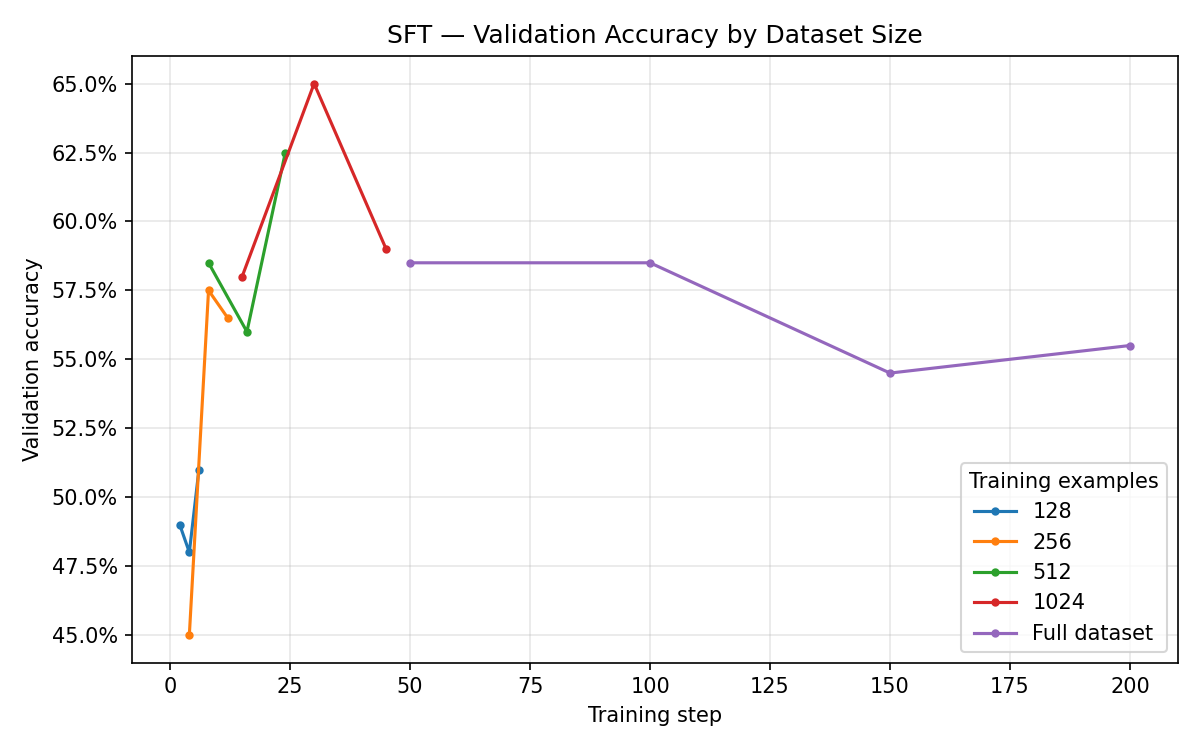
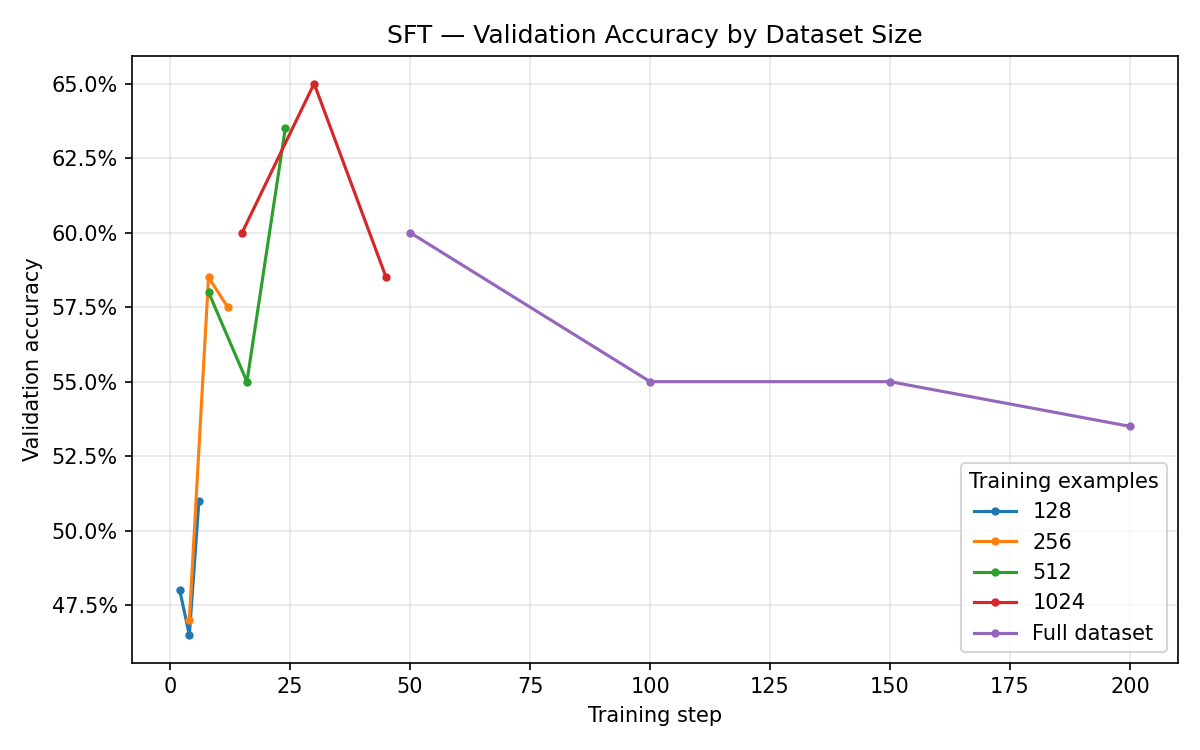
Updated results and README.md

diff --git a/Foundation_model_performance_and_scaling/part5-alignment/README.md b/Foundation_model_performance_and_scaling/part5-alignment/README.md
@@ -12,7 +12,7 @@ Starting from a base model pretrained on math data, the pipeline progressively
 improves mathematical reasoning:
 
 1. **Measure** zero-shot baseline performance on MATH using the r1_zero prompt
-2. **Fine-tune** on DeepSeek R1 chain-of-thought reasoning traces (SFT)
+2. **Fine-tune** on `gpt-oss-120b` chain-of-thought reasoning traces (SFT)
 3. **Bootstrap** reasoning via Expert Iteration: rollout → filter correct → fine-tune
 4. **Optimize** with GRPO: policy gradient with group-normalized verified rewards
 
@@ -87,7 +87,7 @@ varying dataset size and data quality filtering.
 
 ### Training Experiment
 
-Runs six experiments sequentially (dataset size ablation + filtered data):
+Runs seven experiments sequentially (dataset size ablation + filtered data):
 
 | Run | Training examples | Notes |
 |-----|------------------|-------|
@@ -95,16 +95,19 @@ Runs six experiments sequentially (dataset size ablation + filtered data):
 | `sft_n256` | 256 | |
 | `sft_n512` | 512 | |
 | `sft_n1024` | 1024 | |
-| `sft_full` | Full dataset | Target: ≥ 15% validation accuracy |
-| `sft_filtered` | Full, correct-answer only | Filtered by r1_zero reward function |
+| `sft_full` | Full dataset (4836) | Target: ≥ 15% validation accuracy |
+| `sft_filtered` | 4542, correct-only | Filtered by r1_zero_reward_fn (sympy equivalence) |
+| `sft_filtered_repo` | 3496, correct-only | Filtered by strict string match |
 
 ```bash
 cd cs336_alignment/section4_sft
-./part_5_4.sh                        # helper tests + all 6 training runs (2 GPUs)
+./part_5_4.sh                        # helper tests + all 7 training runs (2 GPUs)
 ./part_5_4.sh --tests-only           # helper tests only (CPU, works locally)
-./part_5_4.sh --train-only           # all 6 training runs, skip tests
+./part_5_4.sh --train-only           # all 7 training runs, skip tests
 ./part_5_4.sh --ablation-only        # re-run only n128/256/512/1024, preserve full/filtered
 ./part_5_4.sh --smoke-test           # single-GPU local smoke test (32 examples, no eval)
+./part_5_4.sh --filter-source auto   # filtered run: r1_zero_reward_fn only
+./part_5_4.sh --filter-source repo   # filtered run: string-match file only
 ```
 
 Training uses 2 GPUs: policy on `cuda:0`, vLLM evaluator on `cuda:1`. Evaluates
@@ -138,23 +141,25 @@ Reads all `eval_metrics_*.jsonl` files in `results/section4/` and saves:
 
 ### Results
 
-All six experiments ran on 2× A100 40 GB GPUs. Target was ≥ 15% validation accuracy on the full dataset — exceeded by a large margin.
+All seven experiments ran on 2× A100 40 GB GPUs. Target was ≥ 15% validation accuracy on the full dataset — exceeded by a large margin.
 
 **Final validation accuracy per run:**
 
 | Run | Training examples | Peak accuracy | Final accuracy |
 |-----|------------------|---------------|----------------|
 | `sft_n128` | 128 | 51.0% | 51.0% |
-| `sft_n256` | 256 | 57.5% | 56.5% |
-| `sft_n512` | 512 | 62.5% | 62.5% |
-| `sft_n1024` | 1024 | **65.0%** | 59.0% |
-| `sft_full` | 4836 | 58.5% | 55.5% |
-| `sft_filtered` | Full, correct-only | 59.5% | 55.0% |
+| `sft_n256` | 256 | 58.5% | 57.5% |
+| `sft_n512` | 512 | 63.5% | 63.5% |
+| `sft_n1024` | 1024 | **65.0%** | 58.5% |
+| `sft_full` | 4836 | 60.0% | 53.5% |
+| `sft_filtered` | 4542 (correct-only, r1_zero_reward_fn) | **65.0%** | **65.0%** |
+| `sft_filtered_repo` | 3496 (correct-only, string match) | 63.5% | 63.5% |
 
 **Key findings:**
 - Even 128 examples is enough to jump from 2.5% (zero-shot) to ~50% — SFT teaches format compliance immediately, which unlocks most of the gain
-- Accuracy improves with dataset size up to 1024 examples (65% peak), then plateaus with the full dataset — likely because the full-dataset model needs more training steps to fully converge
-- Correct-answer filtering has a modest benefit early in training (slightly higher peak at step 100) but converges to similar accuracy as unfiltered SFT
+- Accuracy improves with dataset size up to 1024 examples (65% peak), then degrades slightly at end-of-training due to mild overfitting on the small set
+- Correct-answer filtering makes a clear difference: `sft_filtered` reaches 65% and holds it through 200 steps, while `sft_full` peaks at 60% and degrades to 53.5% — the ~6% wrong-answer examples in the full dataset introduce noise that causes late overfitting
+- Stricter string-match filtering (3496 examples) performs slightly below sympy-equivalence filtering (4542) — the extra 1046 examples that are mathematically correct but not string-identical do provide useful signal
 
 **Accuracy curves (dataset size ablation):**
 
@@ -166,9 +171,9 @@ All six experiments ran on 2× A100 40 GB GPUs. Target was ≥ 15% validation ac
 
 **Training loss and eval metrics (wandb):**
 
-![Training loss](results/section4/wandb_loss.png)
+![Training loss](results/section4/wandb_loss_updated.png)
 
-![Eval metrics](results/section4/wandb_eval.png)
+![Eval metrics](results/section4/wandb_eval_updated.png)
 
 ---
 
